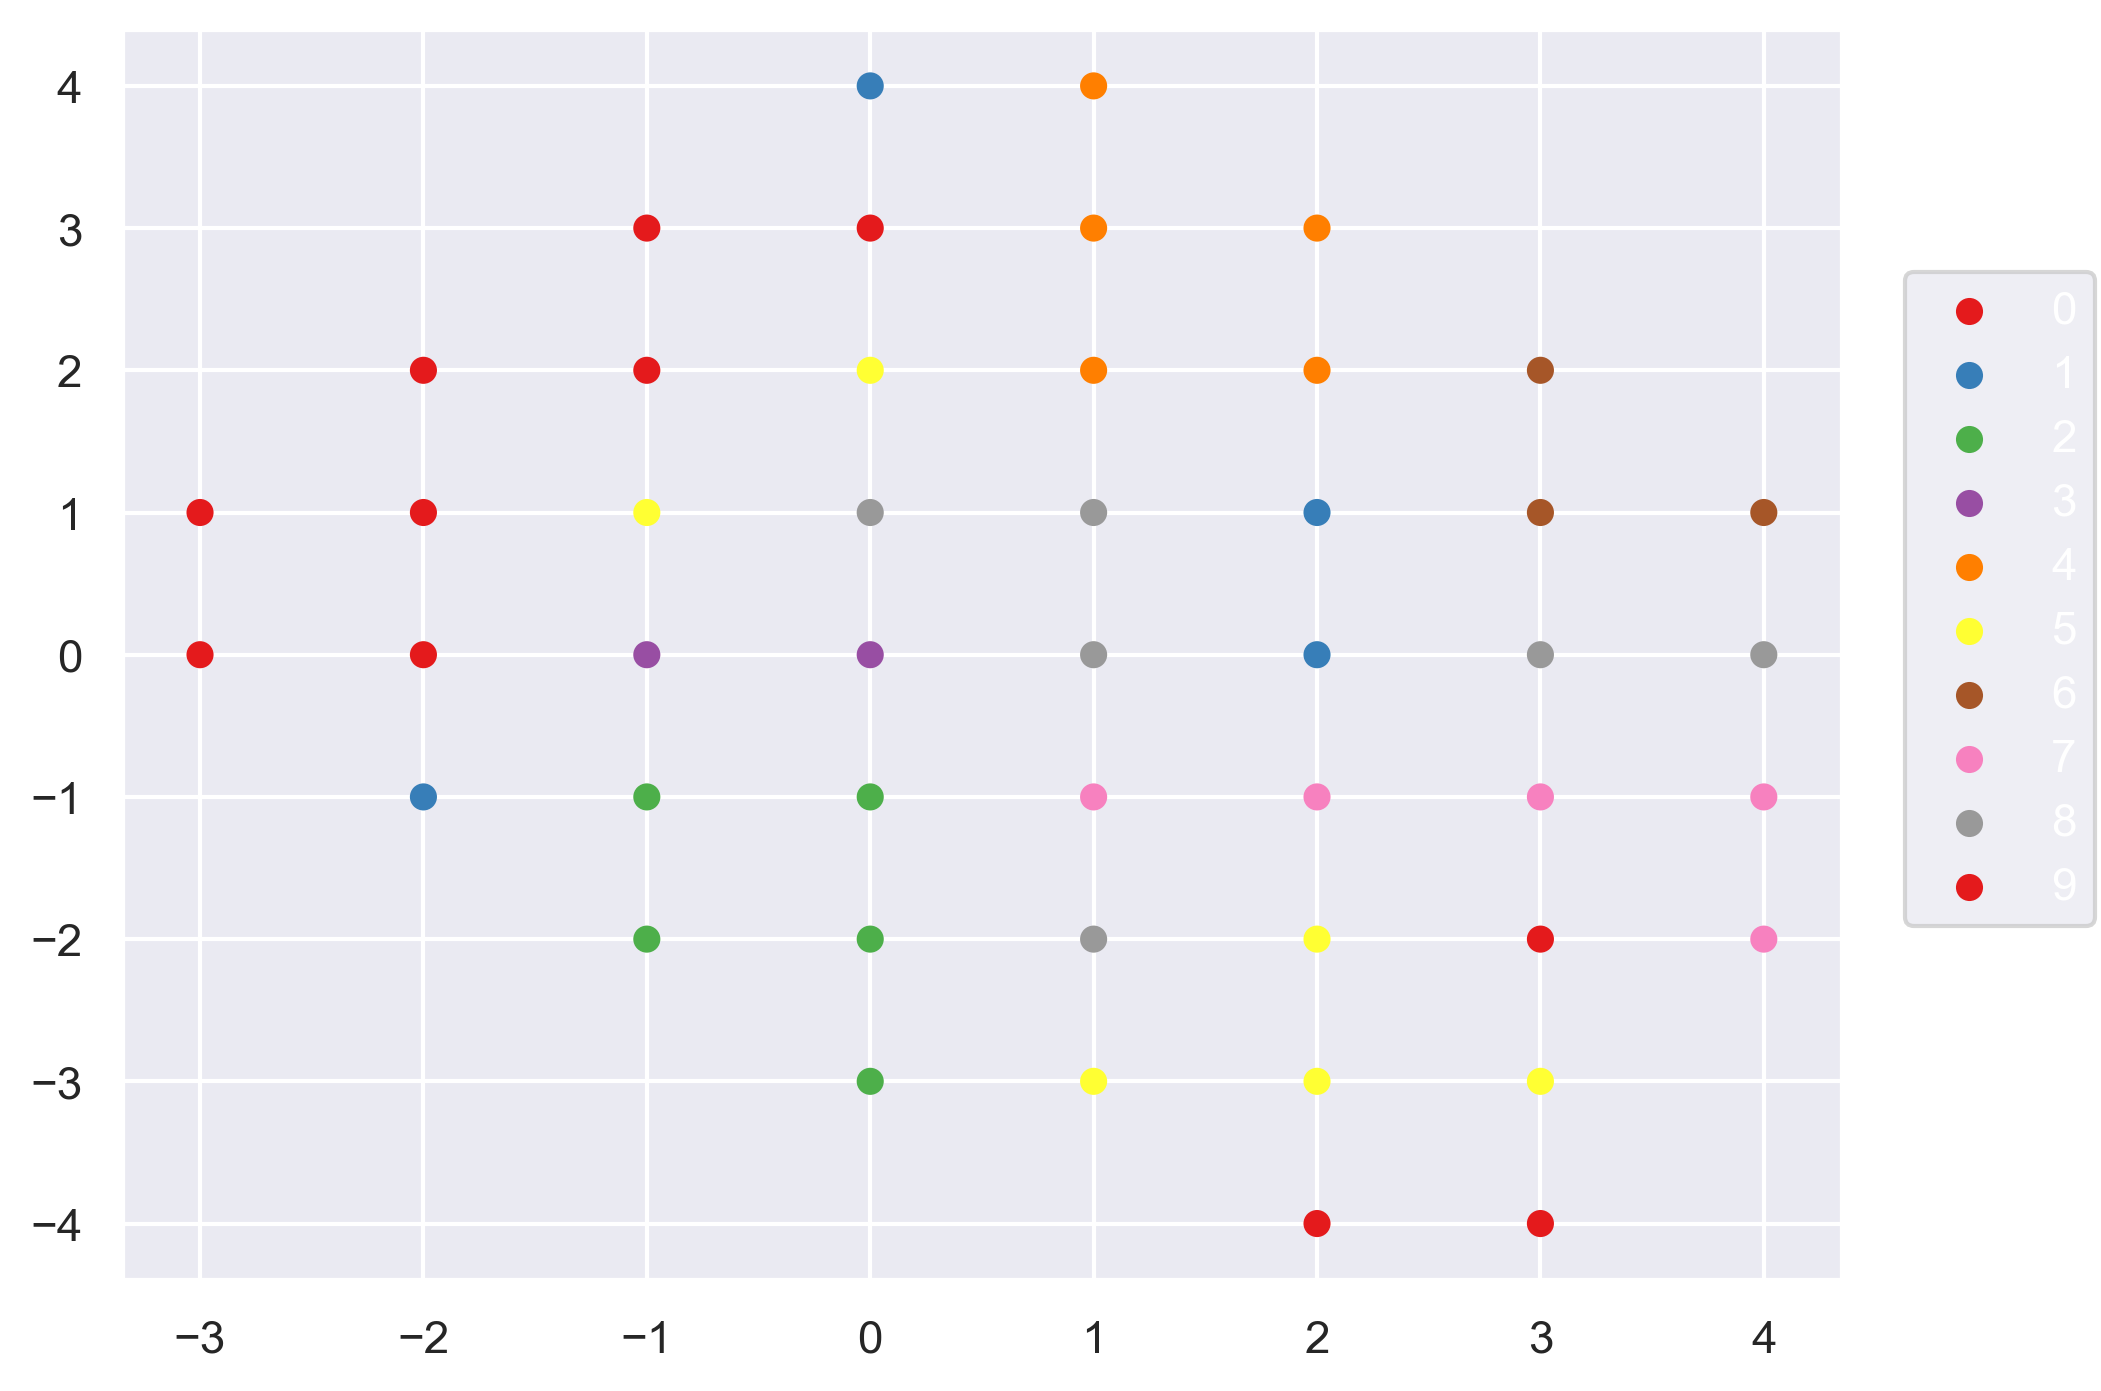
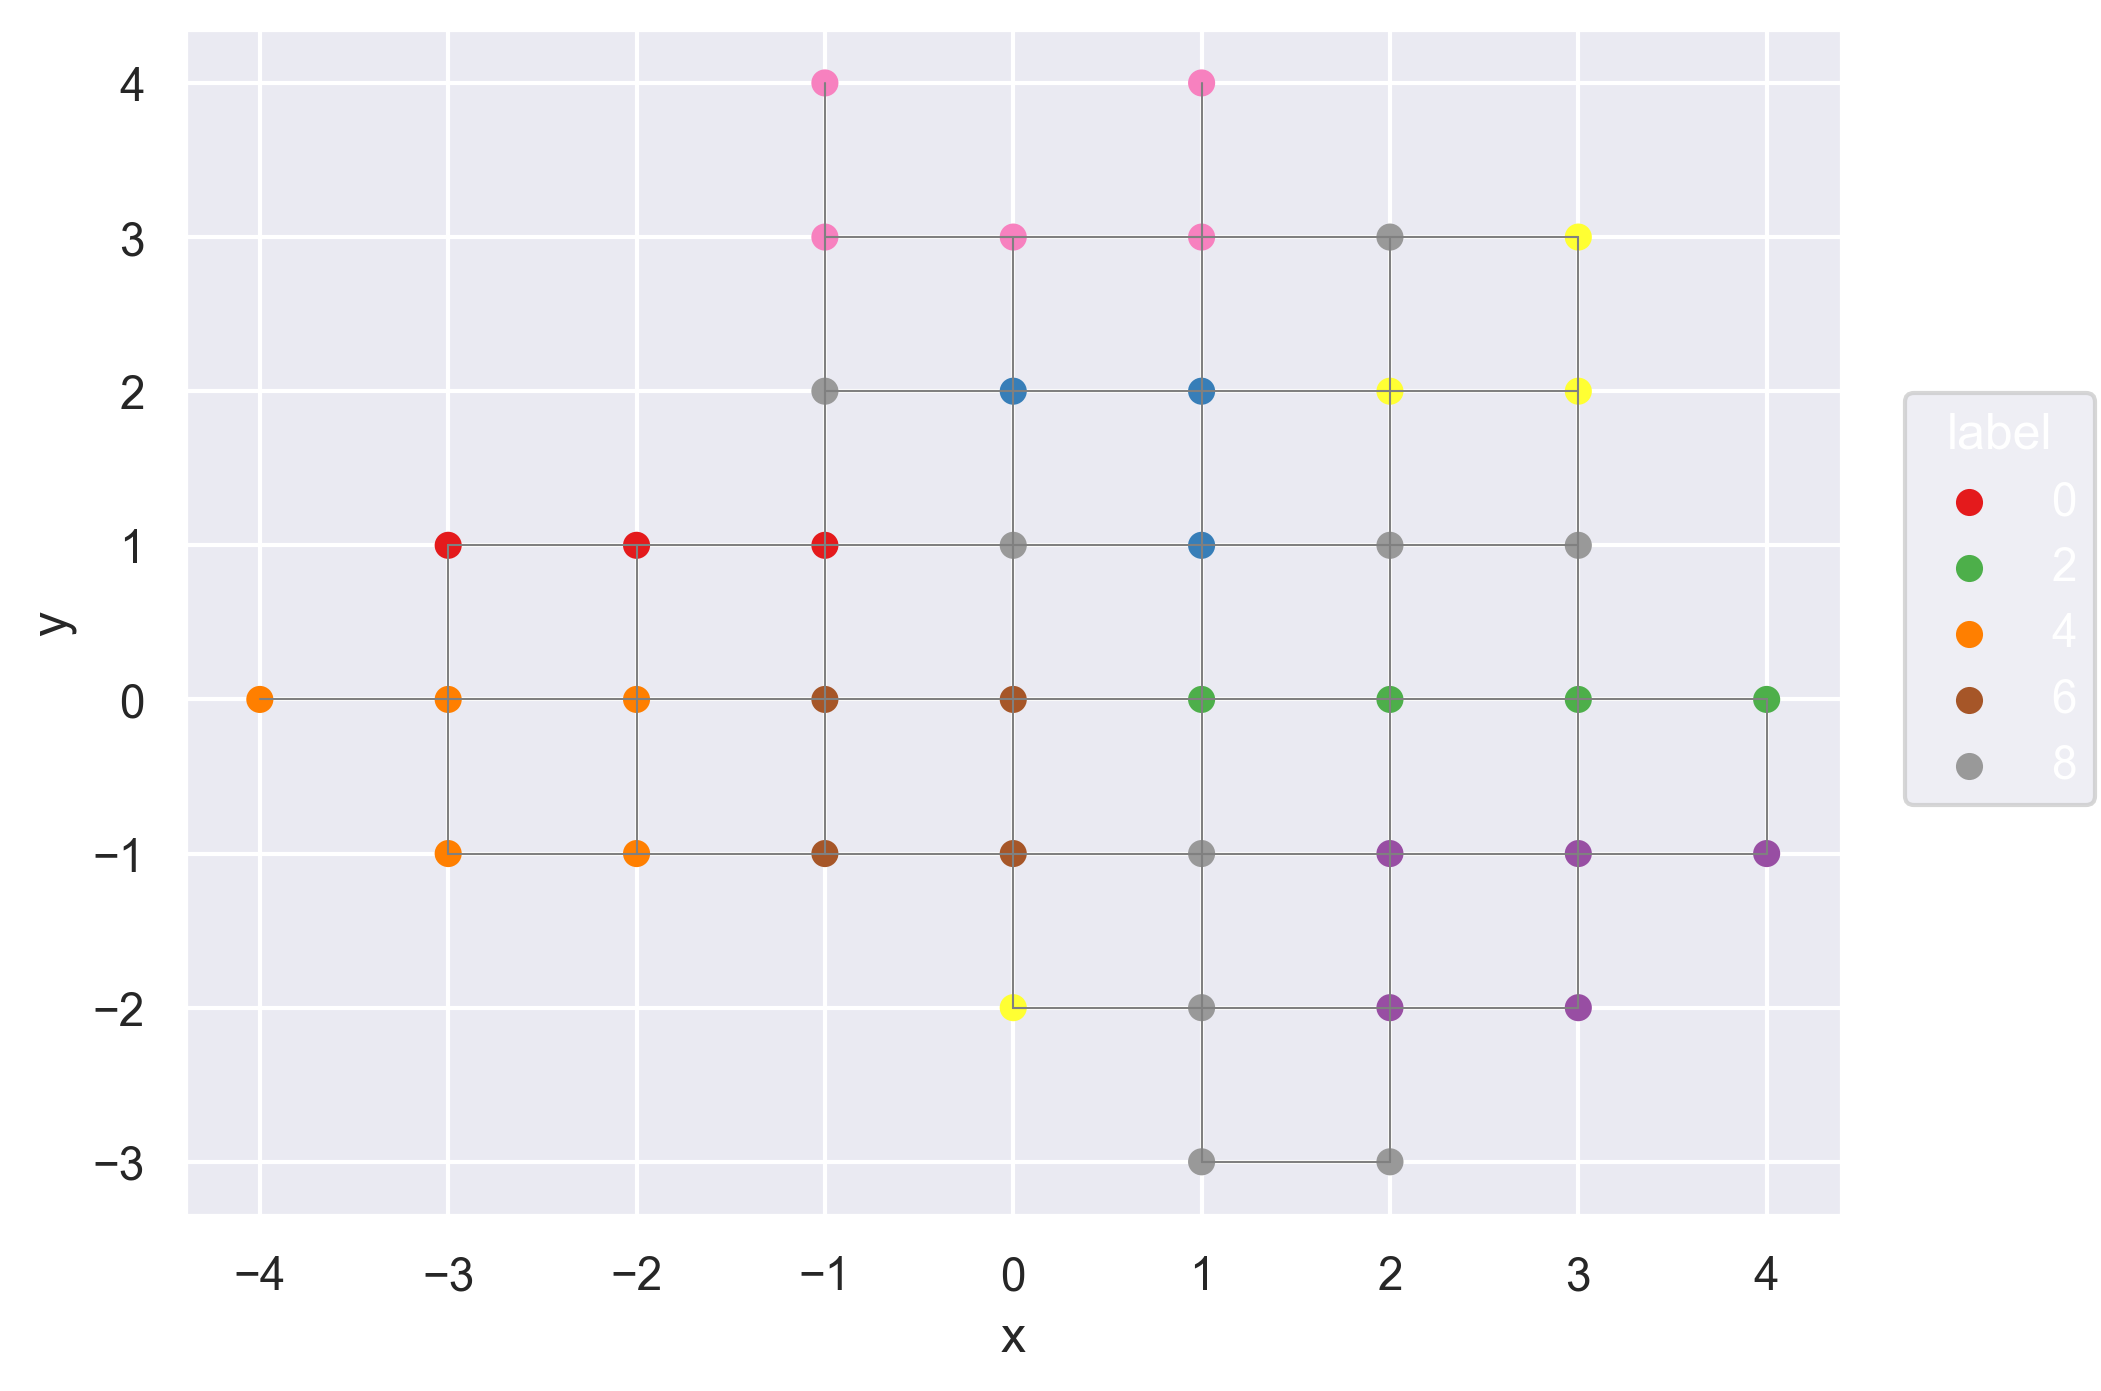
Add PCA-based RGB color mapping and improve plot method
- Add 'pca_rgb' color option to plot() that maps weight vectors to RGB colors via PCA
- Implement _compute_pca_rgb_colors() to project weights to 3D PCA space and convert to hex colors
- Refactor plot() color handling into _resolve_color_aesthetic() and _build_color_scale()
- Change plot() return type from None to so.Plot for better composability
- Increase spring layout iterations from default to 10000 for better convergence
- Update plot() docstring to document new 'pca_rgb' option and clarify color mapping behavior

diff --git a/dbgsom/BaseSom.py b/dbgsom/BaseSom.py
@@ -349,7 +349,7 @@ class BaseSom(BaseEstimator):
         layout: str = "grid",
         palette: str = "magma_r",
         seed: int | None = 0,
-    ) -> None:
+    ) -> so.Plot:
         """Plot the SOM neurons and their neighbourhood edges using seaborn objects.
 
         Edges are drawn first as grey lines; nodes are drawn on top and can be
@@ -358,10 +358,16 @@ class BaseSom(BaseEstimator):
         Parameters
         ----------
         color : {'label', 'epoch_created', 'error', 'average_distance', 'density',
-                 'hit_count'}, optional
+                 'hit_count', 'pca_rgb'}, optional
             Node attribute mapped to colour.  Numeric attributes with all
             identical values are cast to string to avoid a degenerate
             continuous scale.
+
+            Pass ``'pca_rgb'`` to colour each neuron by its position in the
+            first three principal components of the weight space: PC1 -> R,
+            PC2 -> G, PC3 -> B (each component min-max normalised to 0-255).
+            Similar colours indicate similar weight vectors; the colour pattern
+            reveals the topological structure of the feature space.
 
         pointsize : {'label', 'epoch_created', 'error', 'average_distance',
                      'density', 'hit_count'}, optional
@@ -398,7 +404,7 @@ class BaseSom(BaseEstimator):
         nodes = list(self.som_.nodes)
         pos = self._compute_graph_layout(layout, nodes, seed)
 
-        # ── Node DataFrame ────────────────────────────────────────────────
+        # -- Node DataFrame ---------------------------------------------------
         node_data = pd.DataFrame(dict(self.som_.nodes)).T.reset_index(drop=True)
         coords = pd.DataFrame(
             [(pos[n][0], pos[n][1]) for n in nodes], columns=["x", "y"]
@@ -416,9 +422,9 @@ class BaseSom(BaseEstimator):
             if col in nodes_df.columns:
                 nodes_df[col] = pd.to_numeric(nodes_df[col], errors="raise")
 
-        # ── Edge DataFrame (NaN-separated path — matplotlib breaks lines at NaN) ──
-        # Using a single continuous path with NaN sentinels is more reliable than
-        # grouping (so.Path + group= does not split into independent segments).
+        # -- Edge DataFrame (NaN-separated path) ------------------------------
+        # NaN sentinels are more reliable than group= for splitting segments;
+        # matplotlib breaks a Path at every NaN row.
         edge_rows: list[dict] = []
         for u, v in self.som_.edges():
             edge_rows.append({"x": float(pos[u][0]), "y": float(pos[u][1])})
@@ -428,16 +434,12 @@ class BaseSom(BaseEstimator):
             pd.DataFrame(edge_rows) if edge_rows else pd.DataFrame(columns=["x", "y"])
         )
 
-        # ── Aesthetic mappings ────────────────────────────────────────────
+        # -- Aesthetic mappings -----------------------------------------------
         node_aesthetics: dict[str, str] = {}
 
-        if color is not None and color in nodes_df.columns:
-            if (
-                pd.api.types.is_numeric_dtype(nodes_df[color])
-                and nodes_df[color].nunique() <= 1
-            ):
-                nodes_df[color] = nodes_df[color].astype(str)
-            node_aesthetics["color"] = color
+        color_col, color_scale = self._resolve_color_aesthetic(nodes_df, color, palette)
+        if color_col is not None:
+            node_aesthetics["color"] = color_col
 
         if isinstance(pointsize, str) and pointsize in nodes_df.columns:
             if (
@@ -447,7 +449,7 @@ class BaseSom(BaseEstimator):
                 nodes_df[pointsize] = nodes_df[pointsize].astype(str)
             node_aesthetics["pointsize"] = pointsize
 
-        # ── Build and show plot ───────────────────────────────────────────
+        # -- Build and show plot ----------------------------------------------
         p = so.Plot(nodes_df, x="x", y="y")
 
         if not edges_df.empty:
@@ -458,10 +460,98 @@ class BaseSom(BaseEstimator):
 
         p = p.add(so.Dot(), data=nodes_df, **node_aesthetics)
 
-        if "color" in node_aesthetics:
-            p = p.scale(color=palette)
+        if color_scale is not None:
+            p = p.scale(color=color_scale)
 
-        p.show()
+        return p
+
+    def _resolve_color_aesthetic(
+        self,
+        nodes_df: pd.DataFrame,
+        color: str | None,
+        palette: str,
+    ) -> tuple[str | None, "so.Scale | None"]:
+        """Resolve the colour aesthetic and build the matching seaborn scale.
+
+        Returns
+        -------
+        col_name : str or None
+            Column name in *nodes_df* to use as the ``color`` aesthetic,
+            or ``None`` when no colour mapping is requested.
+        scale : so.Scale or None
+            Ready-to-use scale object, or ``None`` when *col_name* is ``None``.
+
+        """
+        if color == "pca_rgb":
+            hex_colors = self._compute_pca_rgb_colors()
+            nodes_df["pca_rgb"] = hex_colors
+            return "pca_rgb", so.Nominal(values={c: c for c in hex_colors})
+
+        if color is not None and color in nodes_df.columns:
+            if (
+                pd.api.types.is_numeric_dtype(nodes_df[color])
+                and nodes_df[color].nunique() <= 1
+            ):
+                nodes_df[color] = nodes_df[color].astype(str)
+            return color, self._build_color_scale(nodes_df[color], palette)
+
+        return None, None
+
+    def _build_color_scale(
+        self,
+        series: pd.Series,
+        palette: str,
+    ) -> "so.Scale":
+        """Return the appropriate seaborn objects colour scale for *series*.
+
+        Numeric series -> ``so.Continuous`` with *palette* as a matplotlib
+        colormap.  Categorical / string series -> ``so.Nominal`` populated
+        with colours drawn from the named seaborn palette.
+
+        """
+        if pd.api.types.is_numeric_dtype(series):
+            return so.Continuous(palette)
+        import seaborn as sns
+
+        colors = sns.color_palette(palette, n_colors=series.nunique())
+        return so.Nominal(values=list(colors))
+
+    def _compute_pca_rgb_colors(self) -> list[str]:
+        """Project weight vectors to 3-D with PCA and map to RGB hex strings.
+
+        Each of the three principal components is independently min-max
+        normalised to [0, 255] and mapped to the R, G, and B channel
+        respectively.  Neurons with similar weight vectors receive similar
+        colours; the resulting colour pattern reveals the topological
+        structure of the feature space.
+
+        Returns
+        -------
+        hex_colors : list of str
+            One ``'#rrggbb'`` string per neuron, in the same order as
+            ``self.neurons_``.
+
+        """
+        from sklearn.decomposition import PCA
+
+        n_components = min(3, self.weights_.shape[1], self.weights_.shape[0])
+        components = PCA(n_components=n_components).fit_transform(self.weights_)
+
+        # Min-max normalise each component independently to [0, 1]
+        col_min = components.min(axis=0)
+        col_max = components.max(axis=0)
+        col_range = np.where(col_max - col_min == 0, 1.0, col_max - col_min)
+        components_norm = (components - col_min) / col_range
+
+        # Pad to exactly 3 channels if the data has fewer than 3 features
+        if n_components < 3:
+            pad = np.zeros((len(components_norm), 3 - n_components))
+            components_norm = np.hstack([components_norm, pad])
+
+        return [
+            "#{:02x}{:02x}{:02x}".format(int(r * 255), int(g * 255), int(b * 255))
+            for r, g, b in components_norm
+        ]
 
     def _compute_graph_layout(
         self,
@@ -473,9 +563,11 @@ class BaseSom(BaseEstimator):
         if layout == "grid":
             return {n: n for n in nodes}
         if layout == "spring":
-            return nx.spring_layout(self.som_, seed=seed)
+            return nx.spring_layout(self.som_, seed=seed, iterations=10000)
         if layout == "spring_weighted":
-            return nx.spring_layout(self.som_, weight="weight_distance", seed=seed)
+            return nx.spring_layout(
+                self.som_, weight="weight_distance", seed=seed, iterations=10000
+            )
         if layout == "pca":
             from sklearn.decomposition import PCA
 
